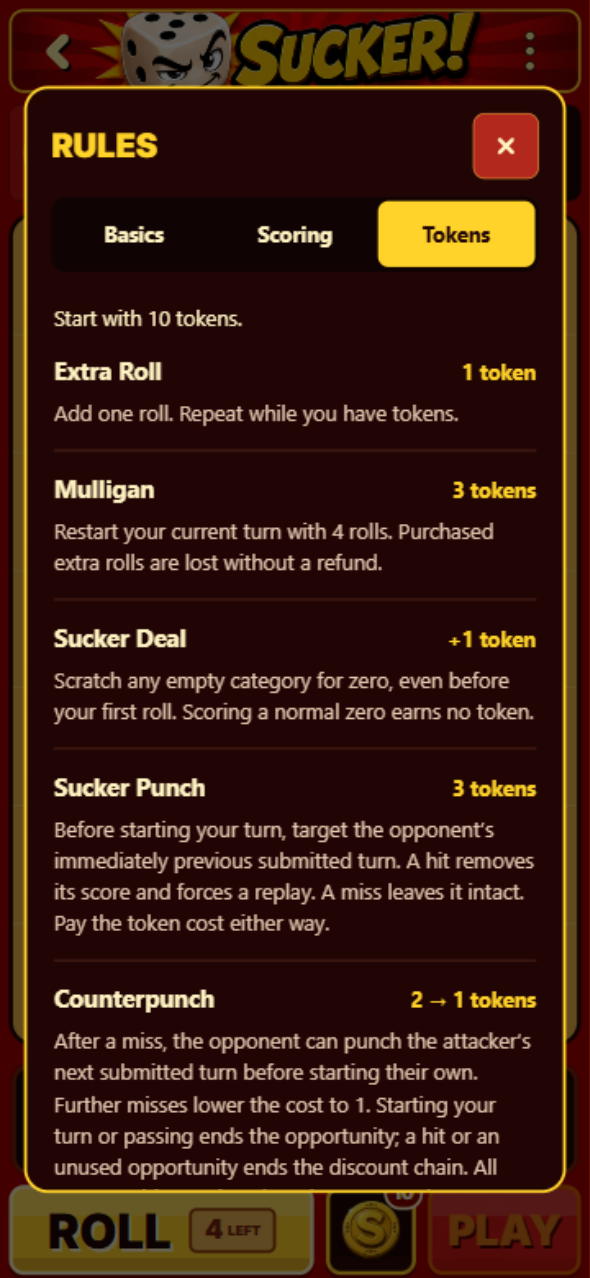
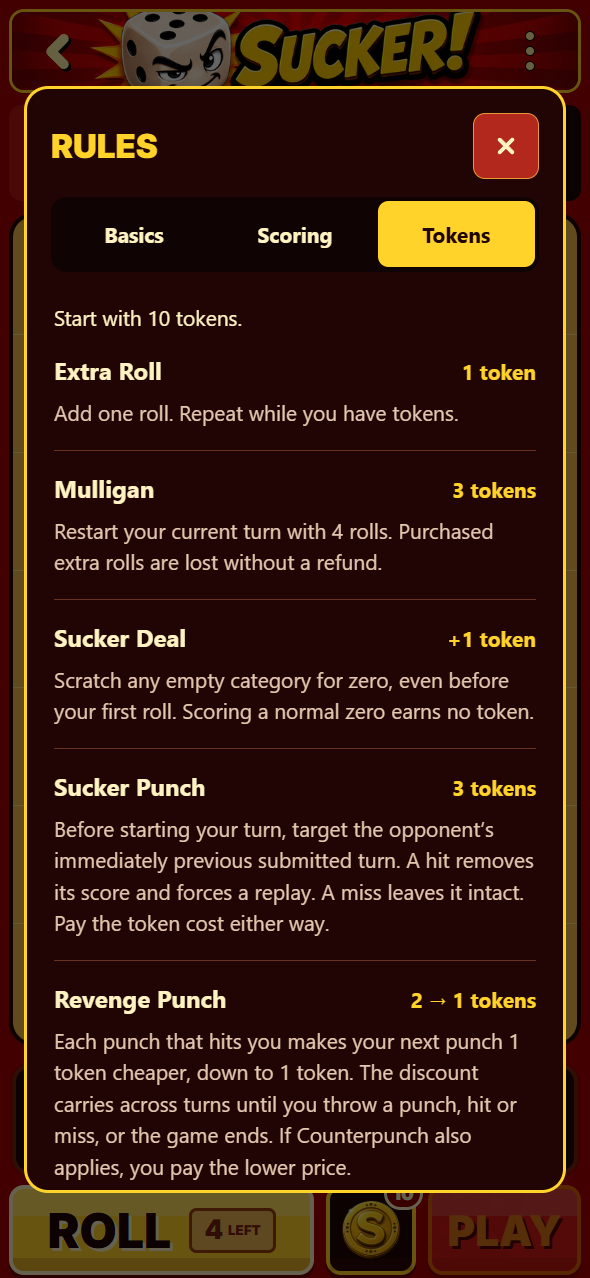
Explain Revenge Punch discounts in the rules reference

diff --git a/src/ui/RulesDialog.tsx b/src/ui/RulesDialog.tsx
@@ -64,6 +64,11 @@ const tokens: Rule[] = [
     body: 'Before starting your turn, target the opponent’s immediately previous submitted turn. A hit removes its score and forces a replay. A miss leaves it intact. Pay the token cost either way.',
   },
   {
+    title: 'Revenge Punch',
+    value: '2 → 1 tokens',
+    body: 'Each punch that hits you makes your next punch 1 token cheaper, down to 1 token. The discount carries across turns until you throw a punch, hit or miss, or the game ends. If Counterpunch also applies, you pay the lower price.',
+  },
+  {
     title: 'Counterpunch',
     value: '2 → 1 tokens',
     body: 'After a miss, the opponent can punch the attacker’s next submitted turn before starting their own. Further misses lower the cost to 1. Starting your turn or passing ends the opportunity; a hit or an unused opportunity ends the discount chain. All opportunities expire when the game ends.',

diff --git a/docs/review-evidence/rules-reference/README.md b/docs/review-evidence/rules-reference/README.md
@@ -2,13 +2,13 @@
 
 The game menu keeps its red and gold buttons, with separate borders, 8-point spacing, and at least 44-point tap targets. The popup is wider so labels have room. [Before](menu-before.png) is the reported cramped menu; [after](menu.png) shows the updated menu.
 
-Rules is available only from the game menu. It opens a reference with Basics, Scoring, and Tokens sections. It explains controls and factual rules without recommending scoring or token strategies. There is no onboarding prompt or step-by-step walkthrough. Closing it preserves the current turn and restores focus to the menu button.
+Rules is available only from the game menu. It opens a reference with Basics, Scoring, and Tokens sections. It explains controls and factual rules, including Revenge Punch discounts, without recommending scoring or token strategies. There is no onboarding prompt or step-by-step walkthrough. Closing it preserves the current turn and restores focus to the menu button.
 
 Screenshots captured in the integrated browser at a 393 × 852 CSS viewport:
 
 - [Basics](basics.png)
 - [Scoring](scoring.png)
 - [Tokens](tokens.png)
-- [Tokens, scrolled to the hit odds](punch-odds.png)
+- [Revenge Punch, Counterpunch, and hit odds](punch-odds.png)
 
-Validation: both typechecks, lint, 128 app tests, and 20 Edge tests pass. Chromium checks cover optional entry, held dice and rolls, keyboard focus containment/restoration, separated menu buttons, scrollable content, and visible close controls at 375 × 667, 393 × 852, and 430 × 932. The three phone screenshot suites and token-menu focus checks pass. Only the three header-menu screenshot baselines change. The rules cases also run in mobile WebKit in CI; local WebKit is unavailable because this host lacks its required shared libraries.
+Validation after merging Revenge Punch: both typechecks, lint, 141 app tests, and 20 Edge tests pass. Seven focused Chromium cases cover the rules, menu spacing at three phone sizes, New Game cancellation, and restoring prepared Revenge Punches at both discounted prices. Rules checks include held dice and rolls, keyboard focus containment/restoration, scrollable content, and visible close controls at 375 × 667, 393 × 852, and 430 × 932. Only the three header-menu screenshot baselines change relative to main. CI also covers mobile WebKit; local WebKit is unavailable because this host lacks its required shared libraries.
